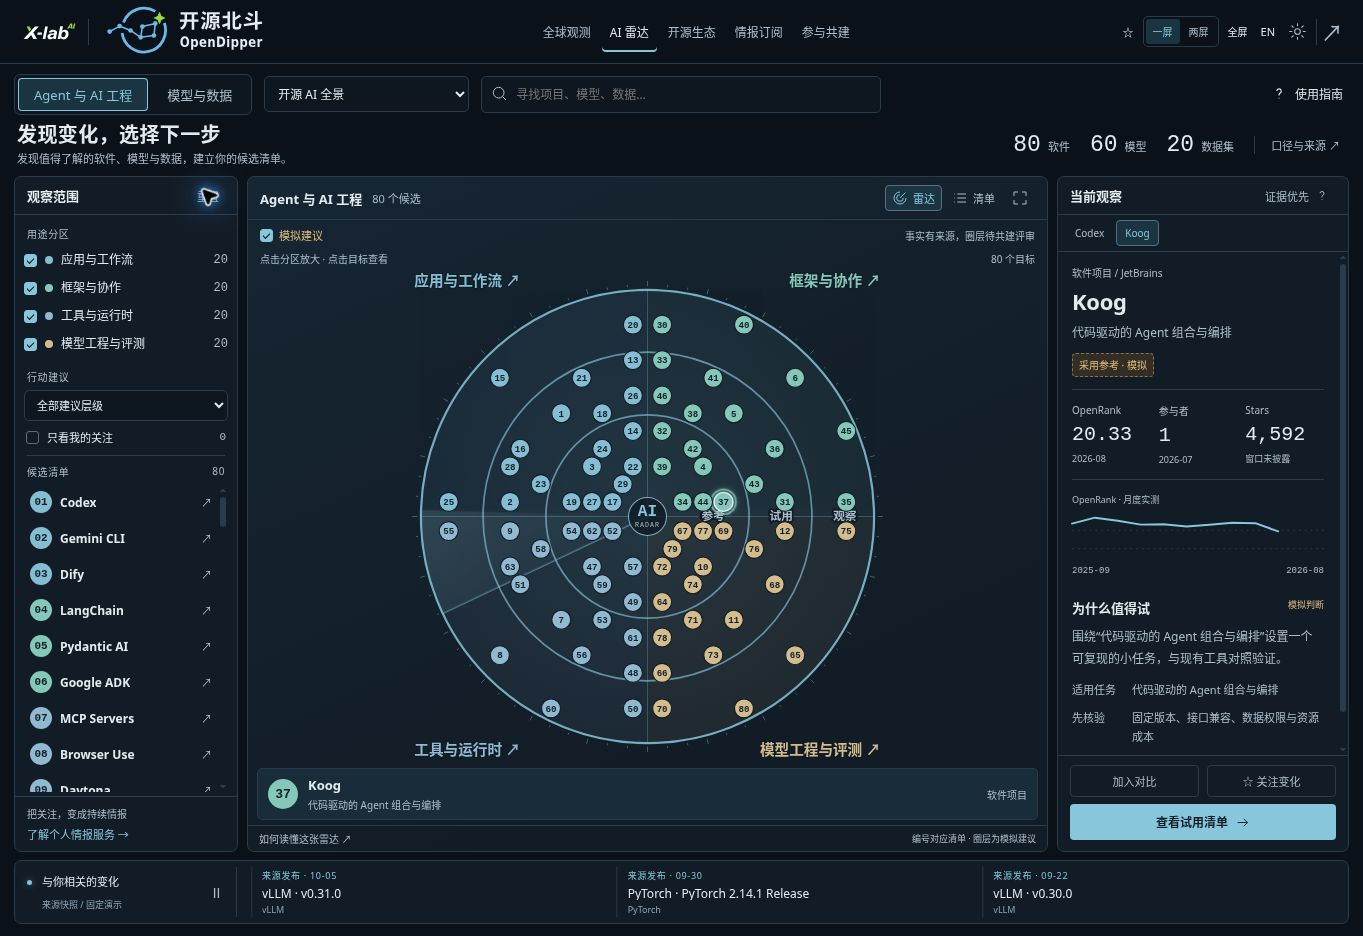
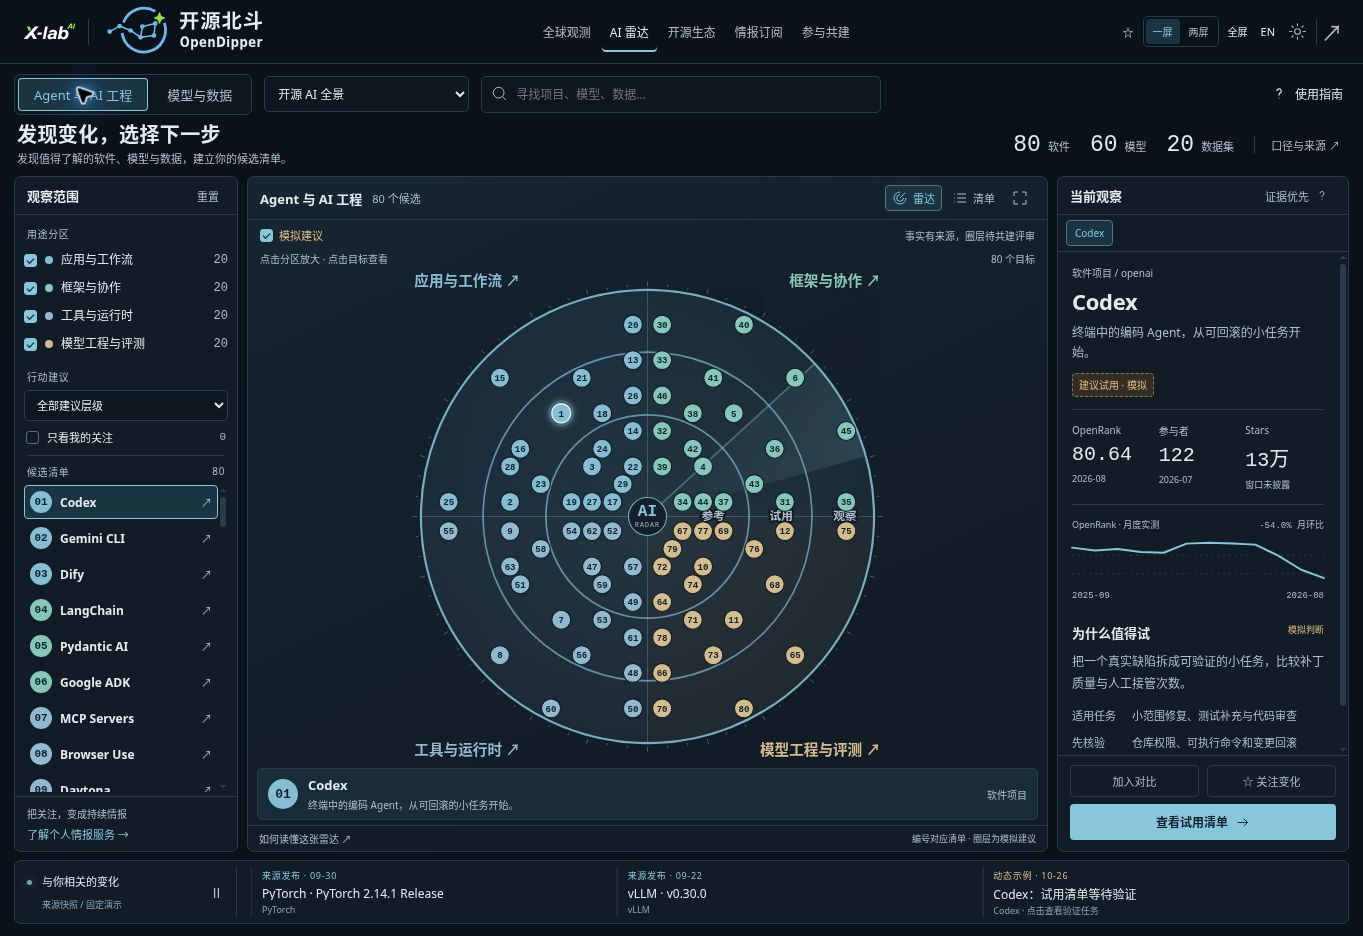
docs: archive AI radar 1.3.1 publication and live review capture

diff --git a/docs/plans/ai-radar-density-v2.md b/docs/plans/ai-radar-density-v2.md
@@ -1,6 +1,6 @@
 # AI radar density and legibility revision
 
-State: active, authorized 2026-10-26 after the first public review. The maintainer wants the repository bilingual logo restored, stronger radar contours/targets/text, and substantially more real entities using existing Landscape/GOSD sources.
+State: implementation published; maintainer product review remains open. Authorized 2026-10-26 after the first public review. The maintainer wants the repository bilingual logo restored, stronger radar contours/targets/text, and substantially more real entities using existing Landscape/GOSD sources.
 
 ## Scope and acceptance
 
@@ -12,7 +12,7 @@ State: active, authorized 2026-10-26 after the first public review. The maintain
 
 ## Work and evidence
 
-Root owns interface, geometry, integration, tests and publication. A bounded research agent extends the factual source extract only. Required gates: typecheck, full deterministic tests/build, managed-browser visual inspection, CI browser acceptance, Pages deployment. Actual receipts will be recorded in issue #26.
+Root owns interface, geometry, integration, tests and publication. A bounded research agent extends the factual source extract only. Required gates: typecheck, full deterministic tests/build, managed-browser visual inspection, CI browser acceptance, Pages deployment. Release receipts are also recorded in issue #26.
 
 ## Data and implementation record
 
@@ -22,4 +22,12 @@ Root owns interface, geometry, integration, tests and publication. A bounded res
 
 ## Verification progress
 
-Local `npm run typecheck`, complete `npm test`, `npm run build`, and `git diff --check` passed. Managed-browser checks confirmed 80 targets per lens, Chinese bilingual header, both themes, 20-target sector focus, return and selected entity details. CI browser and Pages receipts are pending publication and must be recorded separately in issue #26.
+Local `npm run typecheck`, complete `npm test`, `npm run build`, and `git diff --check` passed. Managed-browser checks confirmed 80 targets per lens, Chinese bilingual header, both themes, 20-target sector focus, return and selected entity details. PR #28 browser CI and production CI / Pages both passed; the public route was checked for 80 targets in each lens and the bilingual logo.
+
+## Publication receipt
+
+- [PR #28](https://github.com/X-lab2017/open-dipper/pull/28), merged as `77b426ec1a220272917b789255b62c186a1664dd`.
+- [PR acceptance 40272094096](https://github.com/X-lab2017/open-dipper/actions/runs/40272094096): success, including all browser suites.
+- [Production CI / Pages 40272283896](https://github.com/X-lab2017/open-dipper/actions/runs/40272283896): build and deploy success.
+- Public `https://www.x-lab.info/open-dipper/#radar` checked on 2026-10-26; counts 80 software / 60 models / 20 datasets, 80 rendered targets for each lens, horizontal bilingual dark logo verified.
+- The screenshot in `docs/assets/opendipper-ai-radar-density-20261026.jpg` was captured from this published route; product review continues in issue #26.

diff --git a/docs/STATUS.md b/docs/STATUS.md
@@ -4,7 +4,7 @@
 
 ## 当前评审实现：应用 1.3.1
 
-2026-10-26，根据首版评审扩大为 **160 个有来源候选：80 个软件、60 个模型、20 个数据集**。双视角各 80 个目标，四分区各 20 个；增强轮廓与编号圆点、加入分区放大和目标预览，恢复中英文界面的双语 Logo。事实与模拟判断继续分离，品牌资产仍为 1.1.0。见[本轮计划](plans/ai-radar-density-v2.md)与[雷达契约](AI_RADAR.md)；本轮测试与发布回执记录于 [#26](https://github.com/X-lab2017/open-dipper/issues/26)，不能将下方旧版回执作为本轮验证。
+2026-10-26，根据首版评审扩大为 **160 个有来源候选：80 个软件、60 个模型、20 个数据集**。双视角各 80 个目标，四分区各 20 个；增强轮廓与编号圆点、加入分区放大和目标预览，恢复中英文界面的双语 Logo。事实与模拟判断继续分离，品牌资产仍为 1.1.0。见[本轮计划](plans/ai-radar-density-v2.md)与[雷达契约](AI_RADAR.md)；[PR #28](https://github.com/X-lab2017/open-dipper/pull/28) 已合入；[生产 CI / Pages 40272283896](https://github.com/X-lab2017/open-dipper/actions/runs/40272283896) 的测试、浏览器验收与部署均成功，线上双视角 80 个目标已核对。产品评审继续在 [#26](https://github.com/X-lab2017/open-dipper/issues/26)。
 
 ## 上一评审实现：应用 1.3.0
 

diff --git a/docs/AI_RADAR.md b/docs/AI_RADAR.md
@@ -61,6 +61,6 @@ Source and reuse boundaries: [RIGHTS.md](RIGHTS.md). Agentic AI Landscape facts 
 
 ## Dense radar review — 1.3.1
 
-Managed-browser capture of the implementation preview on 2026-10-26. Both lenses contain 80 numbered targets; quadrant focus enlarges 20 targets. This screen is a product-review record with separately marked simulated guidance. Source identities and observations are real snapshots.
+Managed-browser capture of the published route on 2026-10-26, after [PR #28](https://github.com/X-lab2017/open-dipper/pull/28) and successful [CI / Pages 40272283896](https://github.com/X-lab2017/open-dipper/actions/runs/40272283896). Both lenses contain 80 numbered targets; quadrant focus enlarges 20 targets. This screen is a product-review record with separately marked simulated guidance. Source identities and observations are real snapshots.
 
 ![AI radar 1.3.1: 80 visible numbered software targets and selected evidence](assets/opendipper-ai-radar-density-20261026.jpg)
